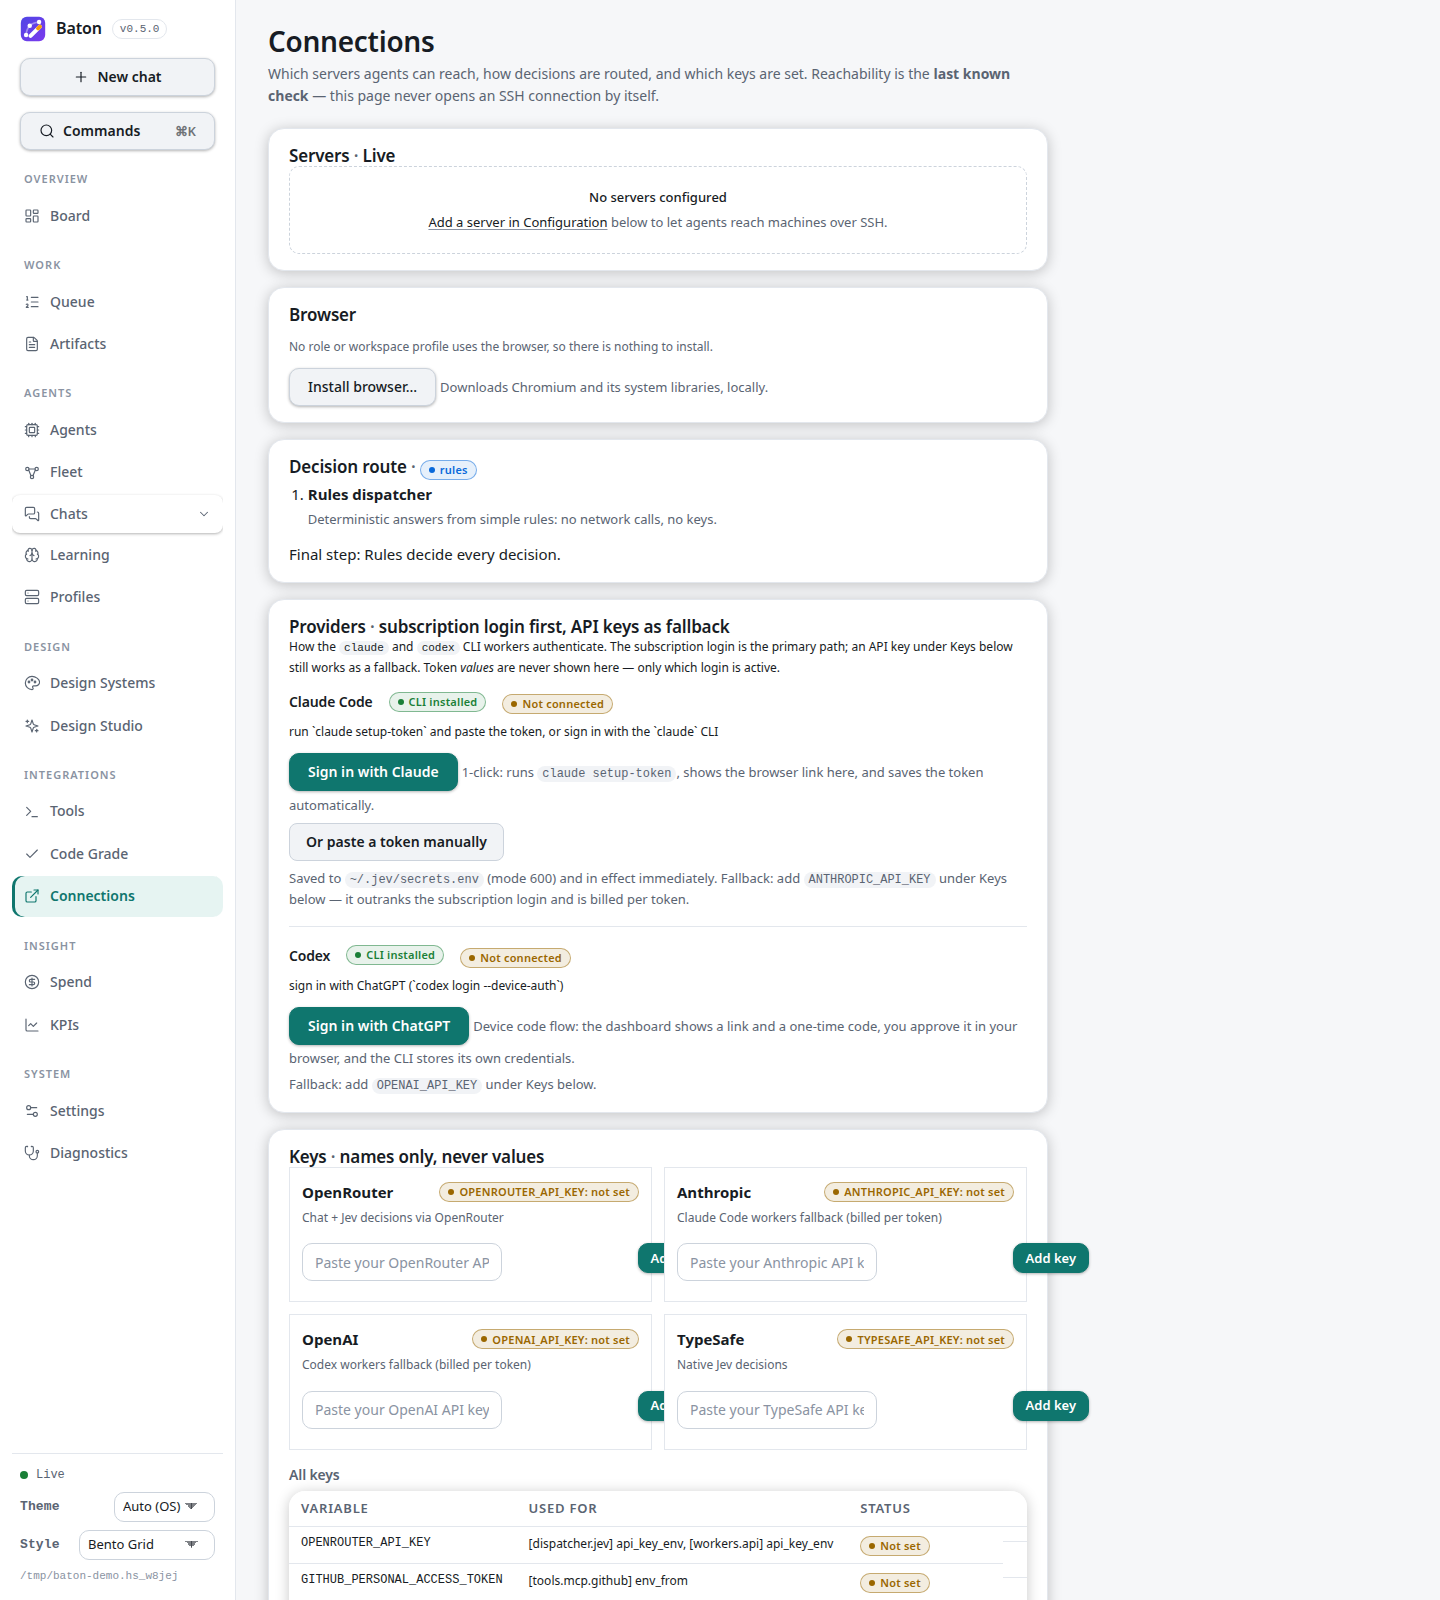
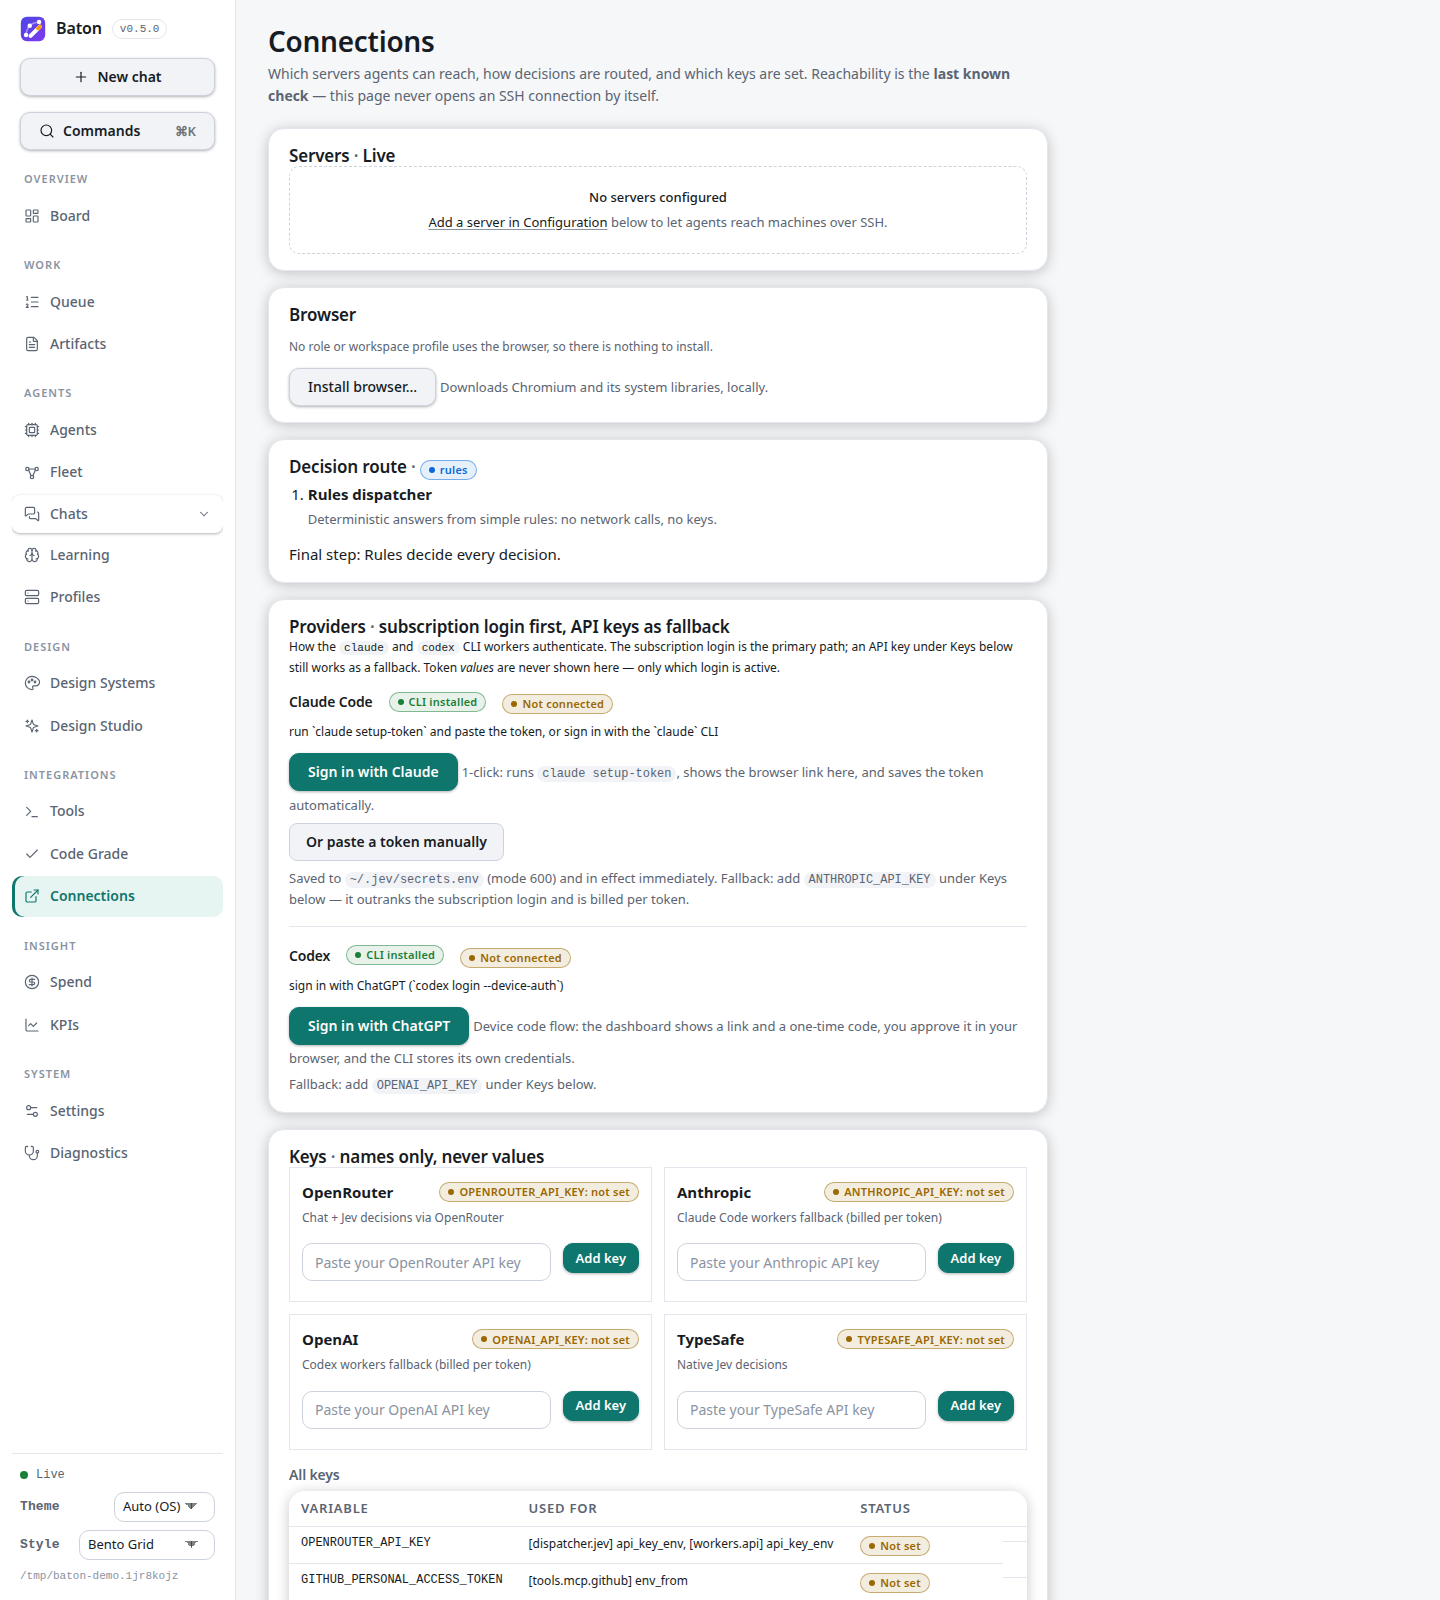
Fix provider key buttons overflowing their cards on Connections (issue #268)
The provider-card Add-key form reuses .field-row, a three-column grid
built for Settings rows (label + control + actions, min 200px + 200px +
auto). Each provider card is only ~340px wide and the form has just two
children (key input + Add key button), so the grid was wider than the
card and every Add key button stuck out past its border. Scope a
two-column grid (input free to shrink, button auto) to the provider-card
form; it still stacks to one column under 720px.

Pre-existing, not a regression from the recent changes: the overflow is
visible in the committed dashboard-connections.png since #265. Found by
the audit cycle 5 WS-3 regression sweep (94/94 flow checks passed; live
CDA grade/route also verified against the cached model).

Regression test: test_provider_key_cards_fit_their_cards.

diff --git a/src/jev_agent/dashboard/static/style.css b/src/jev_agent/dashboard/static/style.css
@@ -547,6 +547,12 @@ pre code { background: none; padding: 0; }
   margin-bottom: var(--s1);
 }
 .provider-card .small.muted { margin: 0 0 var(--s2); }
+/* The provider-card key form reuses .field-row but has only two children
+   (input + Add key) inside a ~340px card: the default three-column grid
+   (min 200px + 200px + auto) is wider than the card, so the button was
+   pushed out past the card's border (audit cycle 5 WS-3). Two columns,
+   with the input free to shrink below its intrinsic width. */
+.provider-card .field-row { grid-template-columns: minmax(0, 1fr) auto; }
 .subsection { font-size: var(--text-sm); font-weight: 600; margin: var(--s4) 0 var(--s2); color: var(--muted); }
 
 h2.section { font-size: var(--text-lg); margin: var(--s6) 0 var(--s3); }
@@ -1279,6 +1285,7 @@ details.add-entity > summary:focus-visible {
 
 @media (max-width: 720px) {
   .field-row { grid-template-columns: 1fr; }
+  .provider-card .field-row { grid-template-columns: 1fr; }
   .field-actions { justify-content: flex-start; }
 }
 

diff --git a/tests/unit/test_dashboard_connections.py b/tests/unit/test_dashboard_connections.py
@@ -206,3 +206,25 @@ def test_refresh_post_checks_servers_and_audits(
 def test_refresh_needs_post_and_csrf(client: TestClient) -> None:
     assert client.get("/connections/refresh").status_code == 405
     assert client.post("/connections/refresh", data={}).status_code == 403
+
+
+def test_provider_key_cards_fit_their_cards(client: TestClient) -> None:
+    """Audit cycle 5 WS-3: the provider key forms must not overflow their cards.
+
+    Each provider card (~340px in the two-column grid) carries an inline Add
+    form with only two children (key input + Add key button), but `.field-row`
+    is a three-column grid built for Settings rows (label + control +
+    actions, min 200px + 200px + auto) — wider than the card, so the button
+    was pushed out past the card's border. The stylesheet must scope a
+    two-column grid to the provider-card form, and the page must still render
+    one such form per provider.
+    """
+    html = client.get("/connections").text
+    forms = re.findall(
+        r'<form method="post" action="/connections/keys/add" class="field-row">', html
+    )
+    assert len(forms) == 4, f"expected 4 provider key forms, got {len(forms)}"
+    css = client.get("/static/style.css").text
+    match = re.search(r"\.provider-card \.field-row \{[^}]*grid-template-columns: ([^;]+);", css)
+    assert match, "no .provider-card .field-row grid override in style.css"
+    assert match.group(1).strip() == "minmax(0, 1fr) auto", match.group(1)
